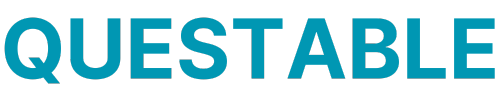
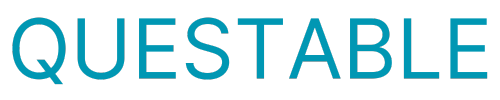
Remove header buffer temporarily

Changed region(s): [[0.0, 0.15, 0.57, 0.87], [0.57, 0.18, 0.99, 0.81], [0.42, 0.45, 0.45, 0.48]]

diff --git a/client/src/components/Header.jsx b/client/src/components/Header.jsx
@@ -75,15 +75,13 @@ const Header = () => {
 
 	return (
 		<>
-			<div className="header-buffer"></div>
+			{/* <div className="header-buffer"></div> */}
 			<div className="header">
 				<div className="logo-box">
 					<Link to="/" className="title">
 						<img className="logo" src="questable_transparent.png" style={{width: 45}} alt="logo" />
-						{/* <span>&nbsp;&nbsp;&nbsp;&nbsp;&nbsp;Quiz Generator</span> */}
+						<img className="logo" src="questable_letter_bold_standard.png" style={{width: 200}} alt="letter" />
 					</Link>
-					<span><img className="logo" src="questable_letter_standard.png" style={{width: 200}} alt="letter" /></span>
-					{/* <img className="beta" src="beta3.png" alt="beta-logo" /> */}
 				</div>
 				{userId ? (
 					<div className="user-box">

diff --git a/client/src/styles/App.css b/client/src/styles/App.css
@@ -135,7 +135,7 @@ a {
 }
 
 @media (max-width: 614px) {
-	.header-buffer {
+	/* .header-buffer {
 		position: sticky;
 		top: 0;
 		visibility: visible;
@@ -145,7 +145,7 @@ a {
 	}
 	.header {
 		top: 30px;
-	}
+	} */
 	.singleOption {
 		width: 100%;
 		height: 75px;
